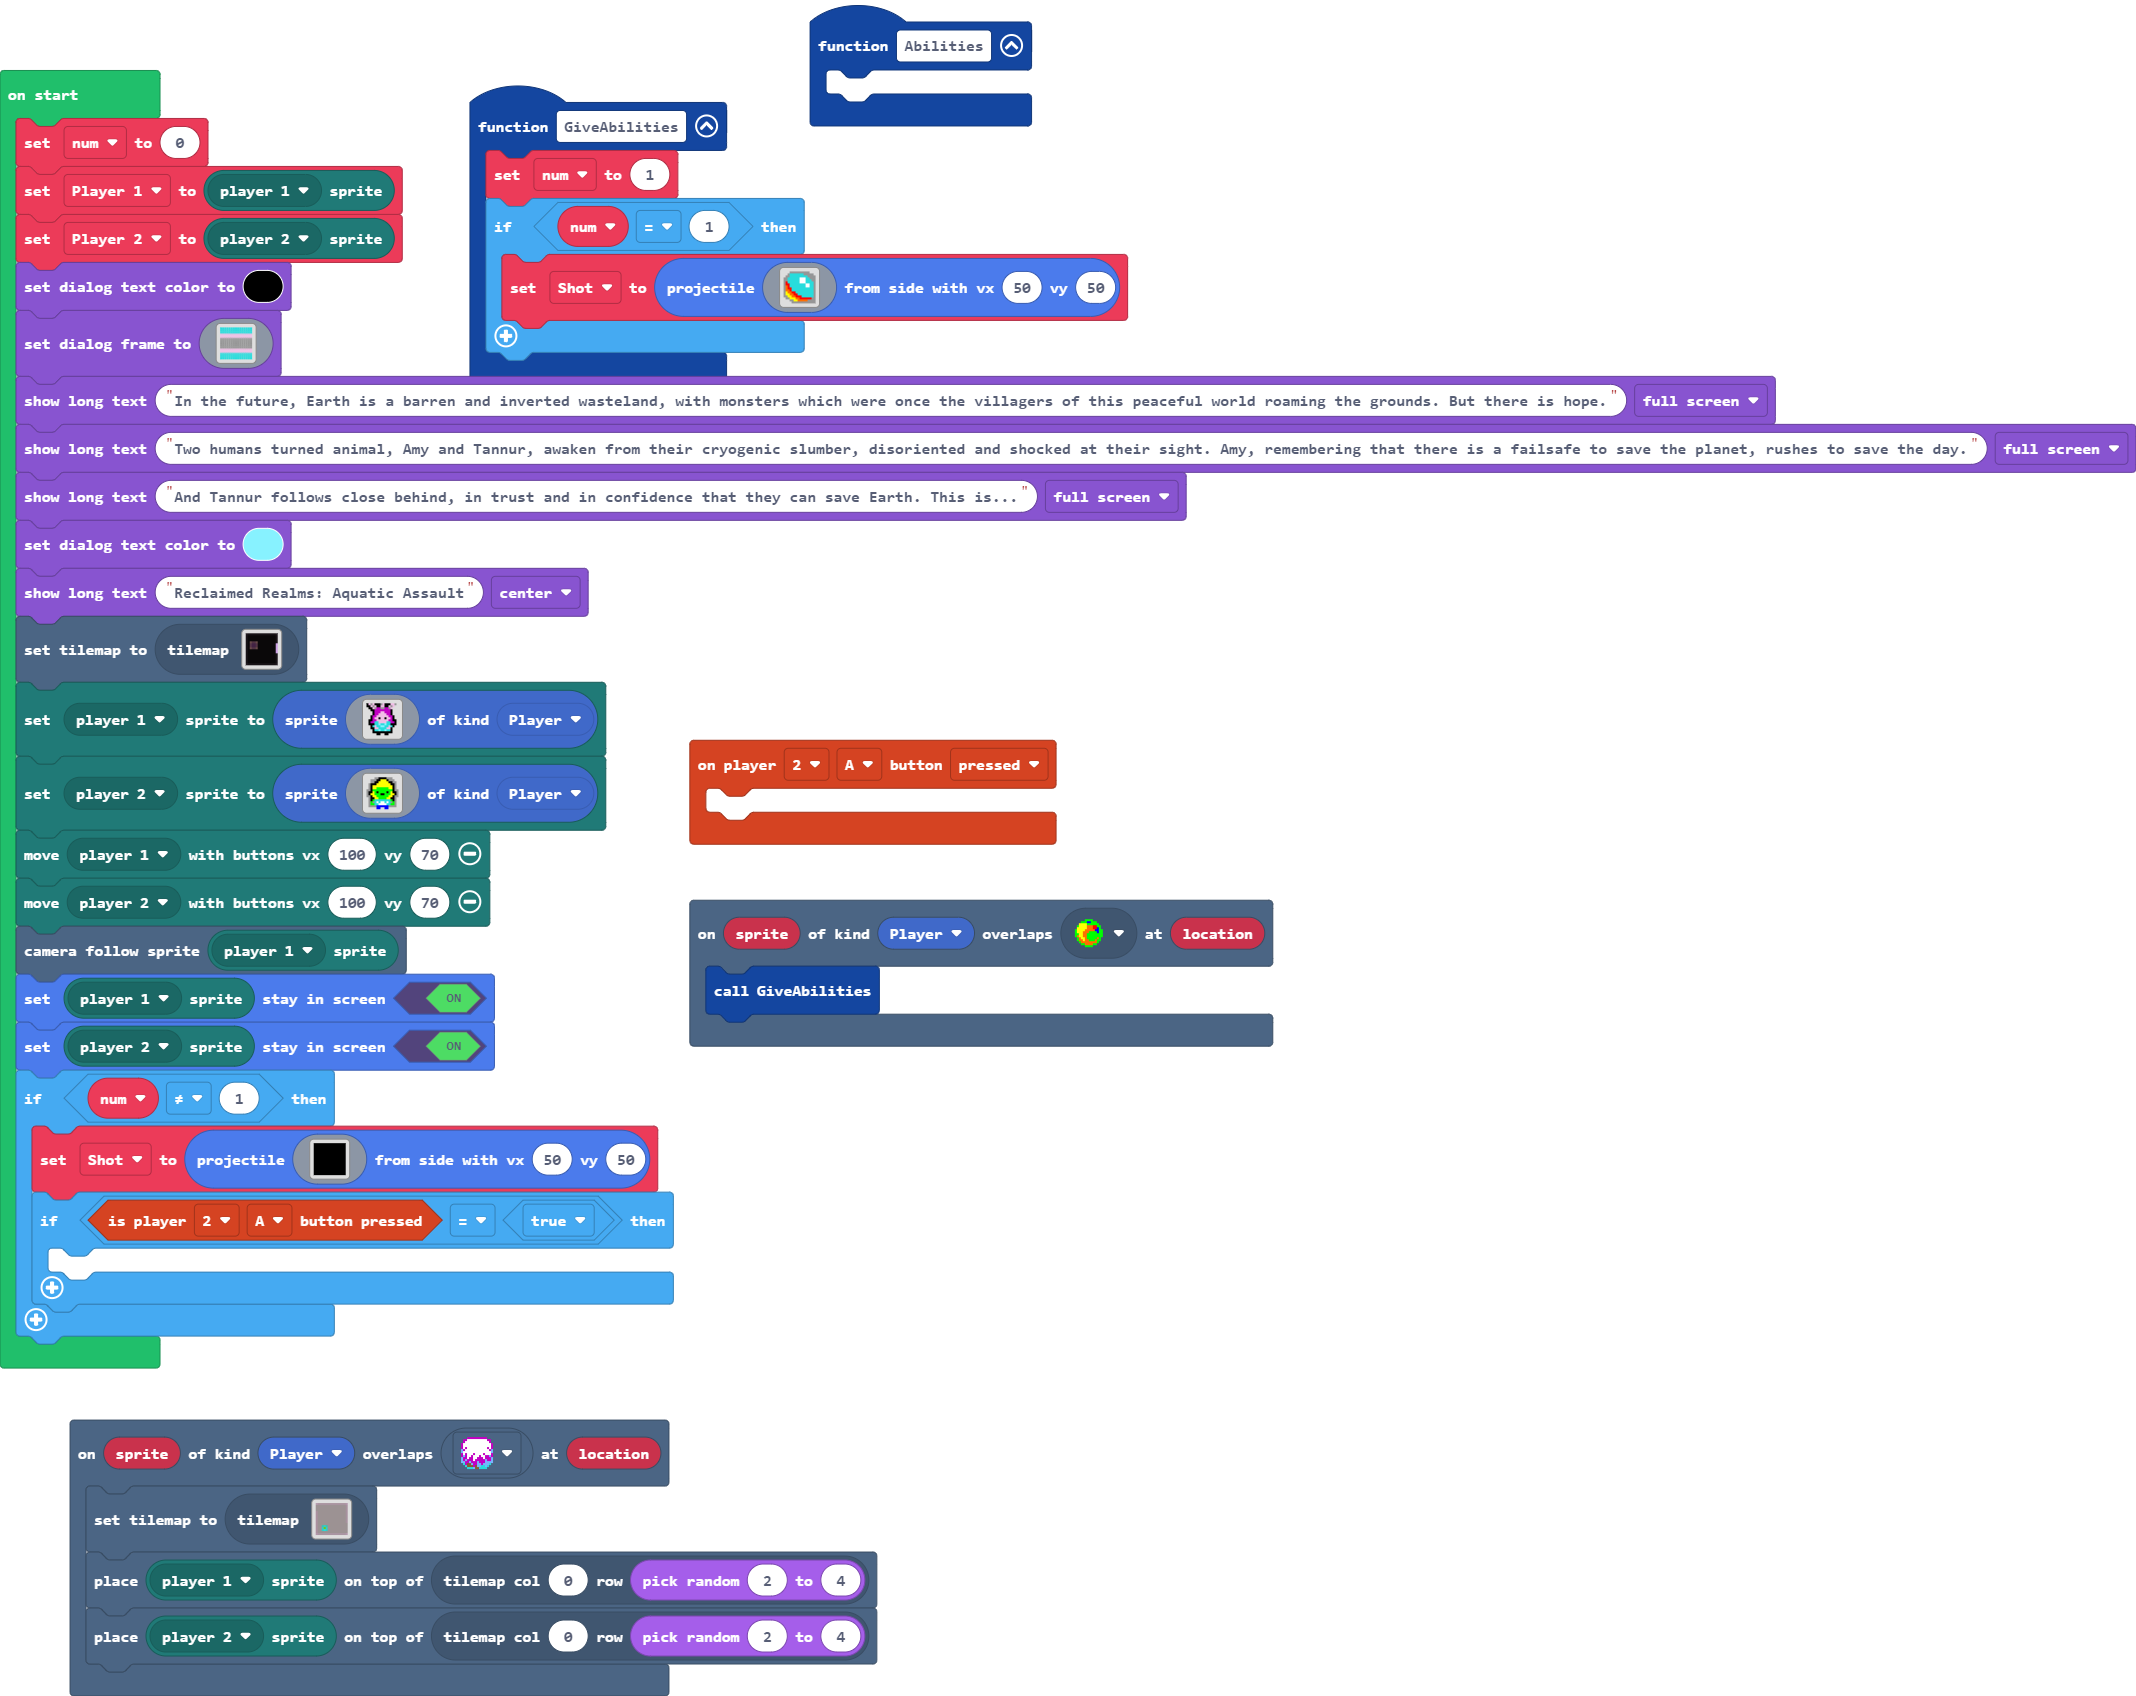
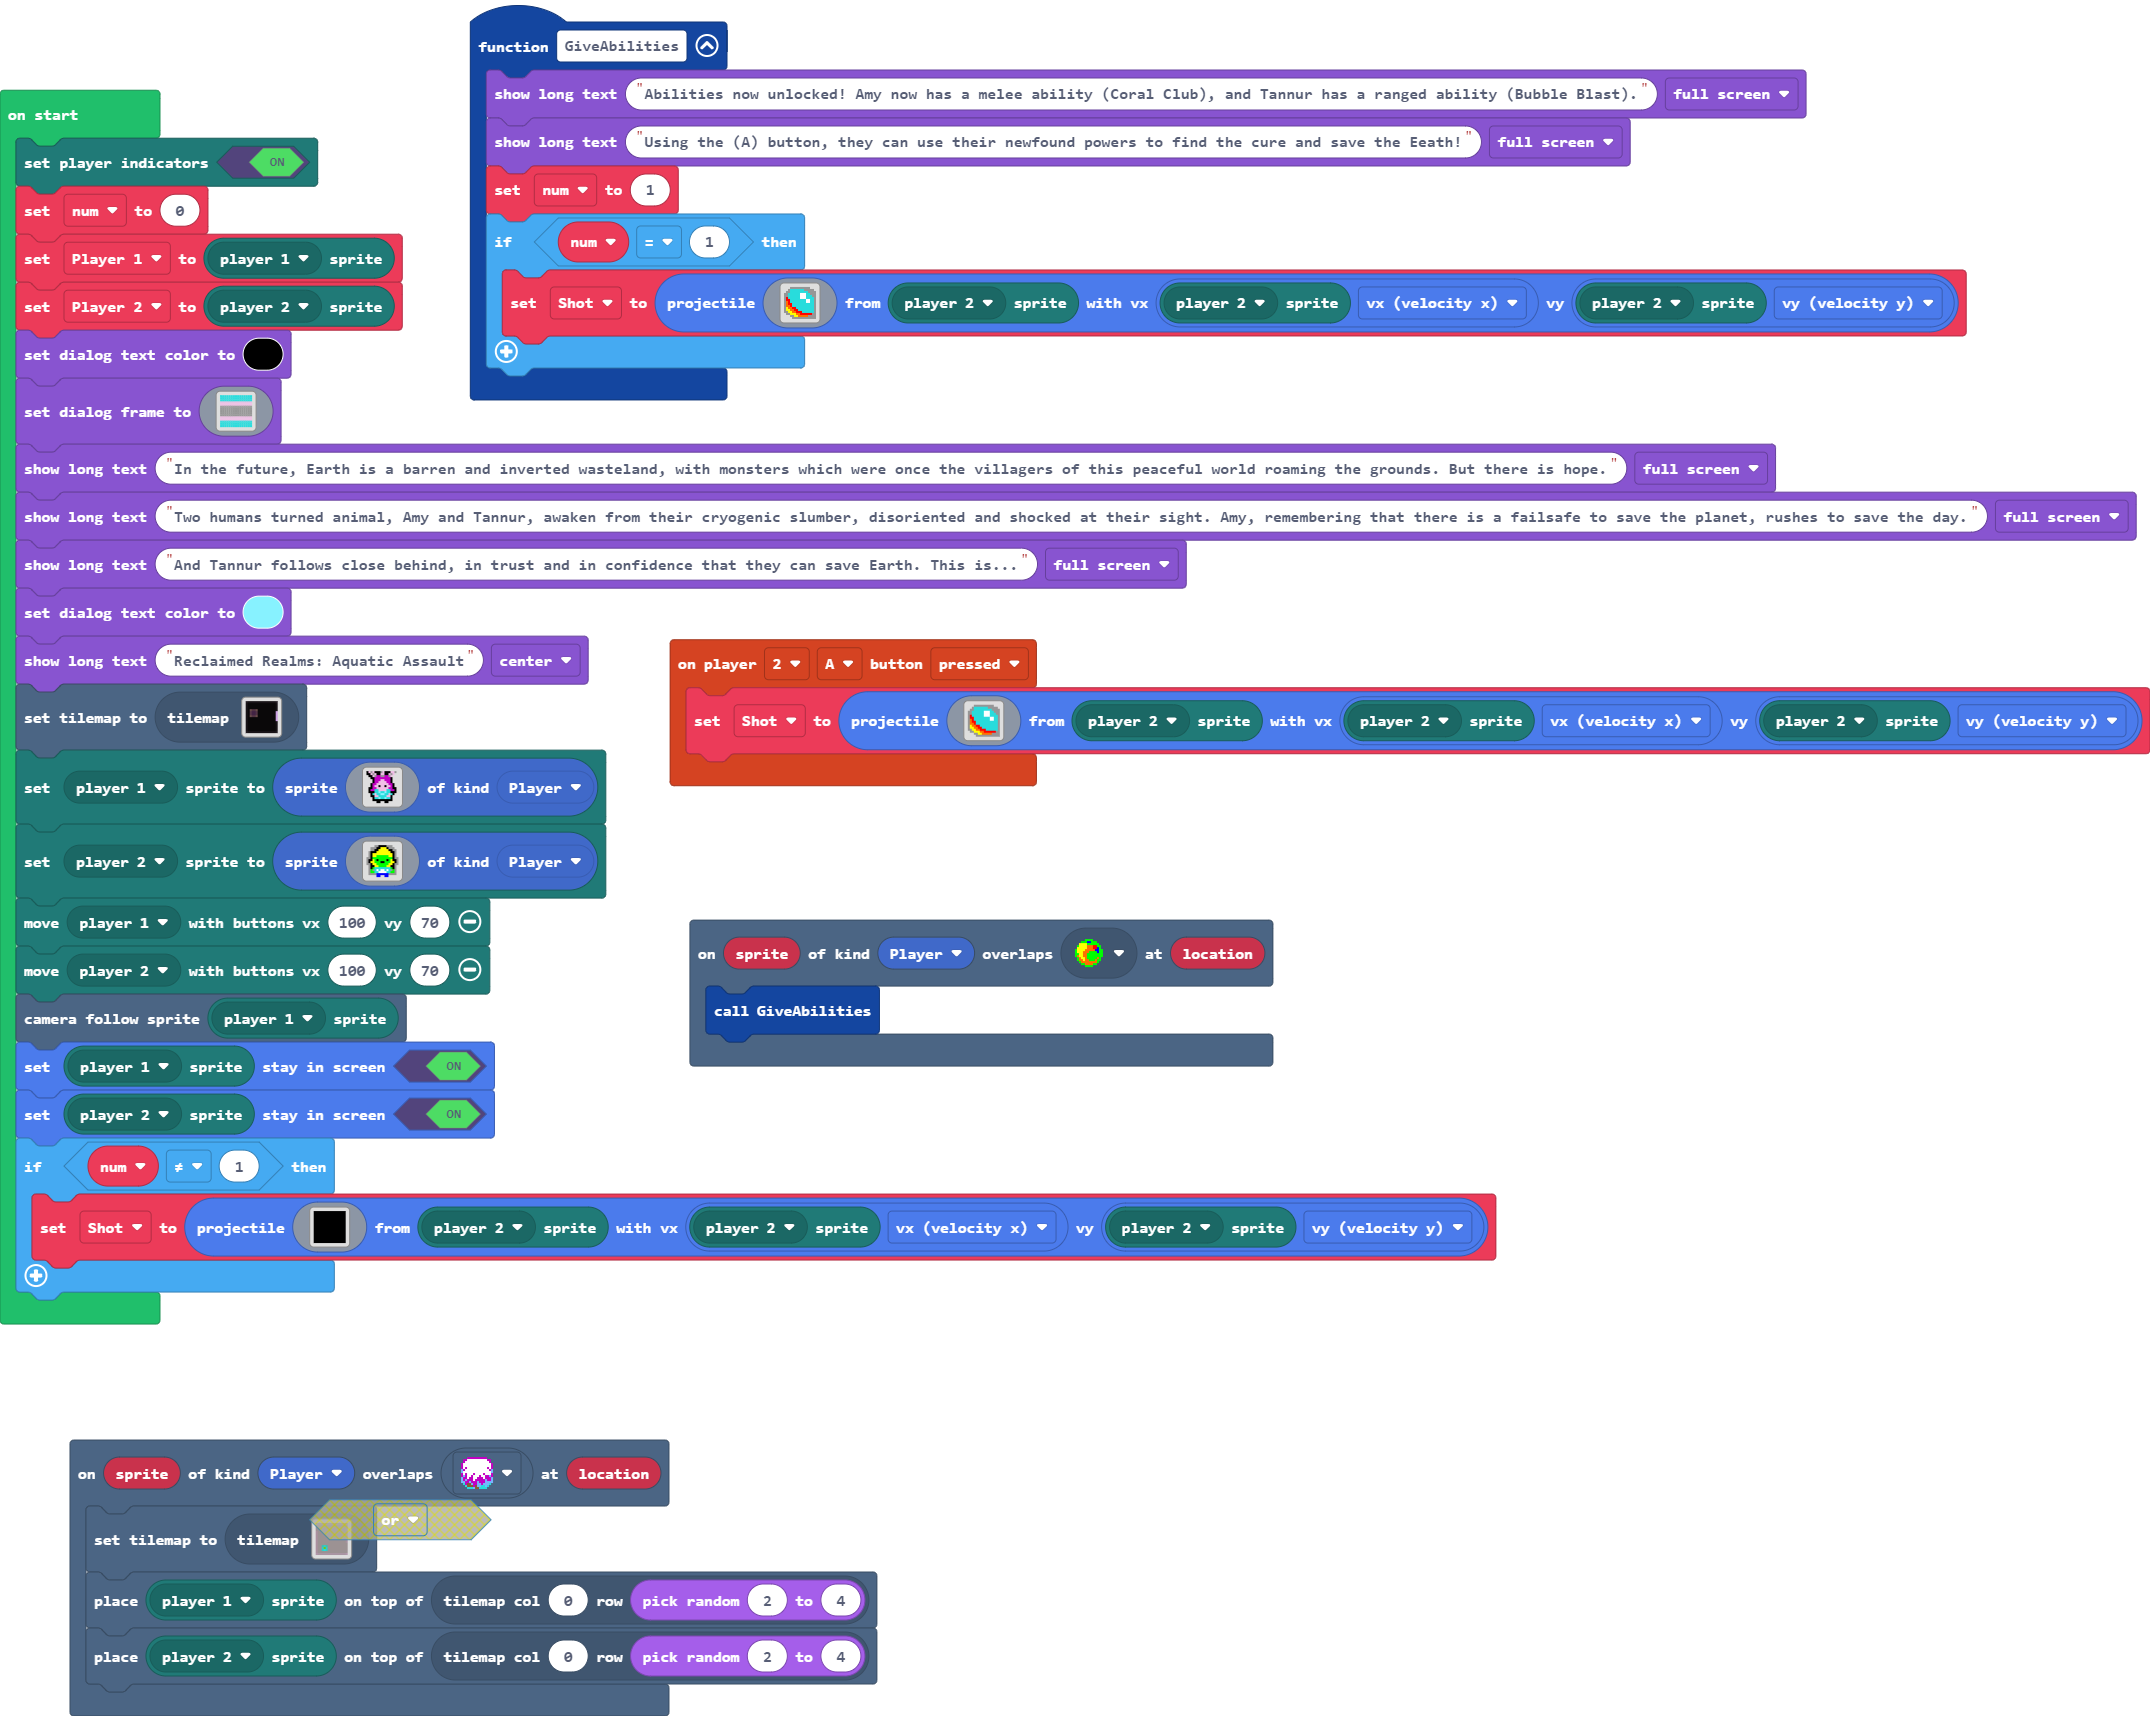
Update pxt.json, main.blocks, main.ts

Changed region(s): [[0.0, 0.0, 1.0, 0.8125], [0.0309, 0.8438, 0.4326, 1.0], [0.309, 0.5312, 0.618, 0.625]]

diff --git a/main.ts b/main.ts
@@ -4,22 +4,22 @@ scene.onOverlapTile(SpriteKind.Player, sprites.builtin.forestTiles0, function (s
     tiles.placeOnTile(mp.getPlayerSprite(mp.playerSelector(mp.PlayerNumber.Two)), tiles.getTileLocation(0, randint(2, 4)))
 })
 controller.player2.onButtonEvent(ControllerButton.A, ControllerButtonEvent.Pressed, function () {
-	
+    Shot = sprites.createProjectileFromSprite(assets.image`Bubble`, mp.getPlayerSprite(mp.playerSelector(mp.PlayerNumber.Two)), mp.getPlayerSprite(mp.playerSelector(mp.PlayerNumber.Two)).vx, mp.getPlayerSprite(mp.playerSelector(mp.PlayerNumber.Two)).vy)
 })
 function GiveAbilities () {
+    game.showLongText("Abilities now unlocked! Amy now has a melee ability (Coral Club), and Tannur has a ranged ability (Bubble Blast).", DialogLayout.Full)
+    game.showLongText("Using the (A) button, they can use their newfound powers to find the cure and save the Eeath!", DialogLayout.Full)
     num = 1
     if (num == 1) {
-        Shot = sprites.createProjectileFromSide(assets.image`Bubble`, 50, 50)
+        Shot = sprites.createProjectileFromSprite(assets.image`Bubble`, mp.getPlayerSprite(mp.playerSelector(mp.PlayerNumber.Two)), mp.getPlayerSprite(mp.playerSelector(mp.PlayerNumber.Two)).vx, mp.getPlayerSprite(mp.playerSelector(mp.PlayerNumber.Two)).vy)
     }
-}
-function Abilities () {
-	
 }
 scene.onOverlapTile(SpriteKind.Player, sprites.dungeon.collectibleRedCrystal, function (sprite, location) {
     GiveAbilities()
 })
 let Shot: Sprite = null
 let num = 0
+mp.setPlayerIndicatorsVisible(true)
 num = 0
 let Player_1 = mp.getPlayerSprite(mp.playerSelector(mp.PlayerNumber.One))
 let Player_2 = mp.getPlayerSprite(mp.playerSelector(mp.PlayerNumber.Two))
@@ -39,8 +39,5 @@ scene.cameraFollowSprite(mp.getPlayerSprite(mp.playerSelector(mp.PlayerNumber.On
 mp.getPlayerSprite(mp.playerSelector(mp.PlayerNumber.One)).setStayInScreen(true)
 mp.getPlayerSprite(mp.playerSelector(mp.PlayerNumber.Two)).setStayInScreen(true)
 if (num != 1) {
-    Shot = sprites.createProjectileFromSide(assets.image`NULL`, 50, 50)
-    if (controller.player2.isPressed(ControllerButton.A) == true) {
-    	
-    }
+    Shot = sprites.createProjectileFromSprite(assets.image`NULL`, mp.getPlayerSprite(mp.playerSelector(mp.PlayerNumber.Two)), mp.getPlayerSprite(mp.playerSelector(mp.PlayerNumber.Two)).vx, mp.getPlayerSprite(mp.playerSelector(mp.PlayerNumber.Two)).vy)
 }
